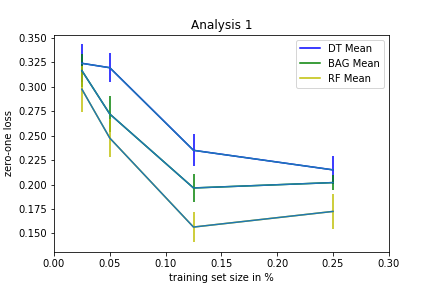
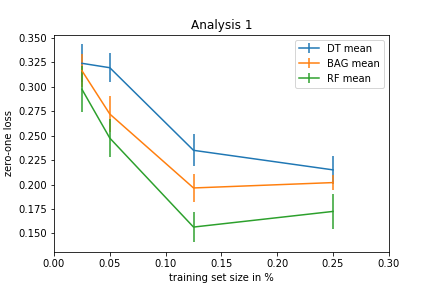
Changed plots

diff --git a/plotting2.py b/plotting2.py
@@ -12,34 +12,35 @@ import numpy as np
 x = [200,500,1000,1500]
 # Make an array of y values for each x value
 
-avgzoldt =[0.23849999999999999, 0.22800000000000004, 0.24100000000000002, 0.20300000000000001]
-avgzolbag =  [0.17650000000000005, 0.15150000000000002, 0.15100000000000002, 0.16100000000000003]
-avgzolrf=[0.17450000000000002, 0.15450000000000003, 0.13450000000000001, 0.12599999999999997]
-avgzolsvm =  [0.156, 0.087499999999999981, 0.078999999999999987, 0.072999999999999982]
+avgzoldt  = [0.23849999999999999, 0.22800000000000004, 0.24100000000000002, 0.20300000000000001]
+avgzolbag = [0.17650000000000005, 0.15150000000000002, 0.15100000000000002, 0.16100000000000003]
+avgzolrf  = [0.17450000000000002, 0.15450000000000003, 0.13450000000000001, 0.12599999999999997]
+avgzolsvm = [0.156, 0.087499999999999981, 0.078999999999999987, 0.072999999999999982]
 
 fig = plt.figure()
 
-# use pylab to plot x and y
-dtplot = plt.plot(x, avgzoldt,  'b', label = 'DT Mean')
-bagplot = plt.plot(x, avgzolbag,  'c', label = 'BAG Mean')
-rfplot = plt.plot(x, avgzolrf,'k', label = 'RF Mean')
-svmplot = plt.plot(x, avgzolsvm,  'r', label = 'SVM Mean')
+## use pylab to plot x and y
+#dtplot  = plt.plot(x, avgzoldt,  'b', label = 'DT Mean')
+#bagplot = plt.plot(x, avgzolbag, 'c', label = 'BAG Mean')
+#rfplot  = plt.plot(x, avgzolrf,  'k', label = 'RF Mean')
+#svmplot = plt.plot(x, avgzolsvm, 'r', label = 'SVM Mean')
 
 #STANDARD ERROR ZERO ONE LOSS
-avgstderrdt = [0.0075183109805328019, 0.017919263377717286, 0.019959959919799437, 0.0098030607465219716]
-avgstderrbag =  [0.0071780916684032314, 0.007715244649393823, 0.0089106677639781869, 0.0086833173384369654]
-avgstderrrf= [0.010640723659601347, 0.010873132023478792, 0.013480541532149217, 0.01187013058057914]
-avgstderrsvm =  [0.0082704292512541331, 0.0051112620750652172, 0.0052820450584976954, 0.0044271887242357238]
+avgstderrdt  = [0.0075183109805328019, 0.017919263377717286, 0.019959959919799437, 0.0098030607465219716]
+avgstderrbag = [0.0071780916684032314, 0.007715244649393823, 0.0089106677639781869, 0.0086833173384369654]
+avgstderrrf  = [0.010640723659601347, 0.010873132023478792, 0.013480541532149217, 0.01187013058057914]
+avgstderrsvm = [0.0082704292512541331, 0.0051112620750652172, 0.0052820450584976954, 0.0044271887242357238]
 
 plt.title('Analysis 2')
 plt.xlim(200,1600)
 plt.xlabel('number of words')
 plt.ylabel('zero-one loss')
-plt.legend(handles = [dtplot[0],bagplot[0],  rfplot[0], svmplot[0]])
-plt.errorbar(x = x, y = avgzoldt, yerr = avgstderrdt, ecolor='b', capthick=2)
-plt.errorbar(x = x, y = avgzolbag, yerr = avgstderrbag, ecolor='c', capthick=2)
-plt.errorbar(x = x, y = avgzolrf, yerr = avgstderrrf, ecolor='k', capthick=2)
-plt.errorbar(x = x, y = avgzolsvm, yerr = avgstderrsvm, ecolor='r', capthick=2)
+#plt.legend(handles = [dtplot[0],bagplot[0],  rfplot[0], svmplot[0]])
+plt.errorbar(x = x, y = avgzoldt, yerr = avgstderrdt,  capthick=2, label = 'DT mean')
+plt.errorbar(x = x, y = avgzolbag, yerr = avgstderrbag, capthick=2, label = 'BAG mean')
+plt.errorbar(x = x, y = avgzolrf, yerr = avgstderrrf,  capthick=2, label = 'RF mean')
+plt.errorbar(x = x, y = avgzolsvm, yerr = avgstderrsvm,  capthick=2, label = 'SVM mean')
+plt.legend(loc='upper right')
 # show the plot on the screen
 plt.show()
 

diff --git a/analysis_hw3.py b/analysis_hw3.py
@@ -6,9 +6,9 @@ from preprocess import splitColumns
 import numpy as np
 from NBCClassifier import featureVector
 from cvFunctions import getTrainData
-from lr import lr
+#from lr import lr
 from svm import svm
-from nbc import nbc
+#from nbc import nbc
 import math
 #from plot import plot
 
@@ -59,7 +59,8 @@ n = len(train)
 #ratios = [0.01,0.03]
 #it = 2
 it = 10
-ratios = [0.01, 0.03, 0.05, 0.08, 0.1, 0.15]
+#ratios = [0.01, 0.03, 0.05, 0.08, 0.1, 0.15]
+ratios = [0.25]
 avgzollr  = [0 for xtemp in range(len(ratios))]
 avgzolsvm = [0 for xtemp in range(len(ratios))]
 avgzolnbc = [0 for xtemp in range(len(ratios))]
@@ -76,7 +77,7 @@ stderrzolnbc = [0 for xtemp in range(len(ratios))]
 testnew = []
 trainnew = []
 
-
+w = 200
 #print "Starting "
 for r in range(len(ratios)):
     print "ration : ",r
@@ -118,13 +119,13 @@ for r in range(len(ratios)):
         wordList = [x for x,_ in words]
         
         # Forming feature vector, calculating Conditional probabilities, applying NBC
-        trainfv, trainfv0, trainfv1  = featureVector(wordList[:4000], x_train, y_train)
-        testfv, testfv0, testfv1 = featureVector(wordList[:4000], x_test, y_test)
+        trainfv, trainfv0, trainfv1  = featureVector(wordList[:w], x_train, y_train)
+        testfv, testfv0, testfv1 = featureVector(wordList[:w], x_test, y_test)
        
     
-        zoltemplr[i]  = lr(trainfv,testfv)  
+#        zoltemplr[i]  = lr(trainfv,testfv)  
         zoltempsvm[i] = svm(trainfv,testfv)   
-        zoltempnbc[i] = nbc(trainfv,testfv)   
+#        zoltempnbc[i] = nbc(trainfv,testfv)   
         
     avgzollr[r]  = np.mean(zoltemplr)
     avgzolsvm[r] = np.mean(zoltempsvm)

diff --git a/plotting.py b/plotting.py
@@ -12,9 +12,9 @@ avgzolrf = [0.29749999999999999, 0.24749999999999997, 0.1565, 0.1725000000000000
 fig = plt.figure()
 
 # use pylab to plot x and y
-dtplot = plt.plot(x, avgzoldt,  'b', label = 'DT Mean')
-bagplot = plt.plot(x, avgzolbag,'g', label = 'BAG Mean')
-rfplot = plt.plot(x, avgzolrf,  'y', label = 'RF Mean')
+#dtplot = plt.plot(x, avgzoldt,  'b', label = 'DT Mean')
+#bagplot = plt.plot(x, avgzolbag,'g', label = 'BAG Mean')
+#rfplot = plt.plot(x, avgzolrf,  'y', label = 'RF Mean')
 
 #STANDARD ERROR ZERO ONE LOSS
 avgstderrdt = [0.019297668252926305, 0.014974144382902147, 0.016309506430300089, 0.014017845768876177]
@@ -26,11 +26,12 @@ plt.title('Analysis 1')
 plt.xlim(0.0,0.3)
 plt.xlabel('training set size in %')
 plt.ylabel('zero-one loss')
-plt.legend(handles = [dtplot[0], bagplot[0], rfplot[0]])
-plt.errorbar(x = x, y = avgzoldt, yerr = avgstderrdt, ecolor='b', capthick=2)
-plt.errorbar(x = x, y = avgzolbag, yerr = avgstderrbag, ecolor='g', capthick=2)
-plt.errorbar(x = x, y = avgzolrf, yerr = avgstderrrf, ecolor='y', capthick=2)
+#plt.legend(handles = [dtplot[0], bagplot[0], rfplot[0]])
+plt.errorbar(x = x, y = avgzoldt, yerr = avgstderrdt, capthick=2, label = 'DT mean')
+plt.errorbar(x = x, y = avgzolbag, yerr = avgstderrbag,  capthick=2, label = 'BAG mean')
+plt.errorbar(x = x, y = avgzolrf, yerr = avgstderrrf,  capthick=2, label = 'RF mean')
 # show the plot on the screen
+plt.legend(loc='upper right')
 plt.show()
 
 

diff --git a/hw4.py b/hw4.py
@@ -19,7 +19,7 @@ from boosting import AdaBoost
 # Defaults
 trainData = 'Data\yelp_data.csv'
 testData  = 'Data\yelp_data.csv'
-percentage = 20
+percentage = 5
 index = 1
 
 # Deciding training and test set
@@ -70,22 +70,22 @@ maxDepth = 10;
 minRows = 10;
 
 ab = AdaBoost();
-index = 4
+index = 2
 
-if index == 1:
-    print "ZERO-ONE-LOSS-DT ", decisionTree(trainfv, testfv, maxDepth, minRows)
-elif index == 2 :
-    print "ZERO-ONE-LOSS-BT ", bagging(trainfv, testfv, maxDepth, minRows)
-elif index == 3:
-    print "ZERO-ONE-LOSS-RF ", randomForest(trainfv, testfv, maxDepth, minRows)
-else:
-    print "ZERO-ONE-LOSS-BST", ab.boosting(trainfv, testfv, maxDepth, minRows, 10)
+#if index == 1:
+#    print "ZERO-ONE-LOSS-DT ", decisionTree(trainfv, testfv, maxDepth, minRows)
+#elif index == 2 :
+#    print "ZERO-ONE-LOSS-BT ", bagging(trainfv, testfv, maxDepth, minRows)
+#elif index == 3:
+#    print "ZERO-ONE-LOSS-RF ", randomForest(trainfv, testfv, maxDepth, minRows)
+#else:
+#    print "ZERO-ONE-LOSS-BST", ab.boosting(trainfv, testfv, maxDepth, minRows, 10)
 # TODO : change num trees
     
-#from analysis_hw4 import analysis    
-#print "Analysis"
-#an = analysis()
-#an.analysisDriver()
+from analysis_hw4 import analysis    
+print "Analysis"
+an = analysis()
+an.analysisDriver()
 
 #import csv
 #

diff --git a/randomForest.py b/randomForest.py
@@ -67,8 +67,8 @@ def split(root, maxDepth, minRows, numFeatures, currDepth):
         return
         
     # Process left branch
-    print "_________________________________________________________"
-    print "Processing left"
+#    print "_________________________________________________________"
+#    print "Processing left"
     if(len(left) <= minRows):
         root['left'] = getLeafClass(left)
 #        print "len(left) : ",len(left)
@@ -77,8 +77,8 @@ def split(root, maxDepth, minRows, numFeatures, currDepth):
         split(root['left'], maxDepth, minRows, numFeatures, currDepth + 1)
     
     # Process right branch
-    print "_________________________________________________________"
-    print "Processing right"
+#    print "_________________________________________________________"
+#    print "Processing right"
     if(len(right) <= minRows):
         root['right'] = getLeafClass(right)
 #        print "len(right) : ",len(right)

diff --git a/plot_shr'.py b/plot_shr'.py
@@ -1,0 +1,20 @@
+# -*- coding: utf-8 -*-
+"""
+Created on Tue Apr 11 09:11:35 2017
+
+@author: Sriranjitha
+"""
+import numpy as np
+import matplotlib.pyplot as plt
+def plot_results_training_set(LR_results, NBC_results, SVM_results):
+    x = np.arange(LR_results.shape[0])
+    n = LR_results.shape[1]
+    x_labels = np.array([0.01, 0.03, 0.05, 0.08, 0.1, 0.15]) * 2000 
+    plt.errorbar(x, LR_results.mean(axis=1), yerr=LR_results.std(axis=1)/np.sqrt(n),label='LR')
+    plt.errorbar(x, NBC_results.mean(axis=1), yerr=NBC_results.std(axis=1)/np.sqrt(n),label='NBC')
+    plt.errorbar(x, SVM_results.mean(axis=1), yerr=SVM_results.std(axis=1)/np.sqrt(n),label='SVM')
+    plt.xticks(x, x_labels)
+    plt.legend(loc='upper right')
+    plt.xlabel("Training set size")
+    plt.ylabel("Zero-one loss")  
+    plt.savefig("plot_1.pdf", bbox_inches='tight')
